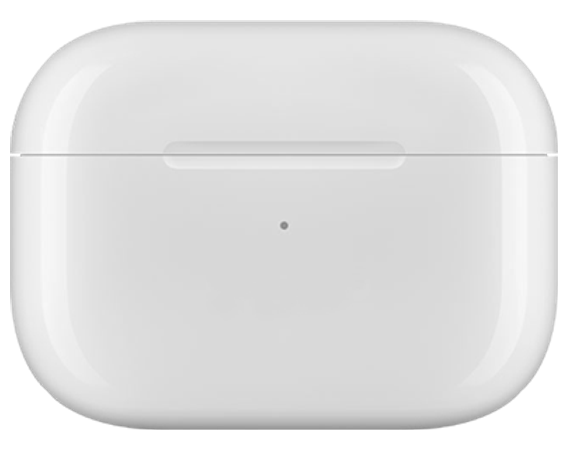
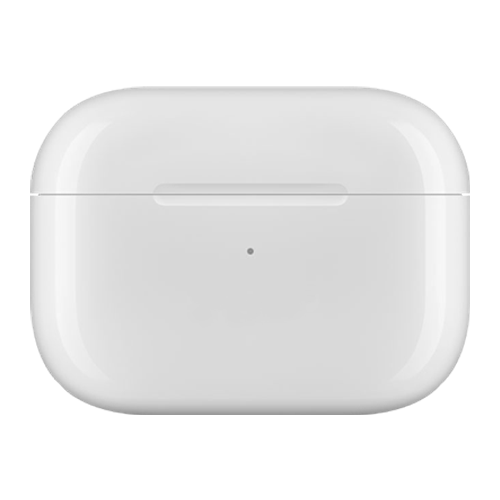
style: adjust slider styling and visual assets
Update slider layout dimensions and refine the ambient glow effect for better alignment. Replaced placeholder image assets with optimized versions.

Changed region(s): [[0.0, 0.0311, 0.99, 0.9644], [0.12, 0.2178, 0.15, 0.2489], [0.09, 0.2489, 0.12, 0.28]]

diff --git a/index.html b/index.html
@@ -755,7 +755,7 @@
 
     .experience-image-area {
       position: relative;
-      min-height: auto;
+      min-height: 470px;
       border-radius: 28px;
       overflow: hidden;
       background: #ffffff;
@@ -764,7 +764,7 @@
       flex-direction: column;
       align-items: center;
       justify-content: center;
-      padding: 30px 18px 24px;
+      padding: 36px 20px 28px;
       box-shadow: 0 10px 32px rgba(0, 0, 0, 0.04);
     }
 
@@ -786,8 +786,9 @@
       display: flex;
       align-items: center;
       justify-content: center;
-      min-height: 270px;
-      overflow: hidden;
+      min-height: 250px;
+      height: 250px;
+      overflow: visible;
     }
     /* Soft ambient blue glow behind the center active earbuds */
     .thfs-stage::before {
@@ -796,9 +797,9 @@
       top: 50%;
       left: 50%;
       transform: translate(-50%, -50%);
-      width: 250px;
-      height: 250px;
-      background: radial-gradient(circle, rgba(20, 52, 124, 0.22) 0%, rgba(20, 52, 124, 0.06) 55%, transparent 75%);
+      width: 210px;
+      height: 210px;
+      background: radial-gradient(circle, rgba(20, 52, 124, 0.18) 0%, rgba(20, 52, 124, 0.05) 55%, transparent 72%);
       border-radius: 50%;
       pointer-events: none;
       z-index: 1;
@@ -818,8 +819,8 @@
       position: absolute;
       top: 50%;
       left: 50%;
-      width: 145px;
-      height: 145px;
+      width: 135px;
+      height: 135px;
       transform: translate(-50%, -50%) scale(0.6);
       opacity: 0.4;
       transition: transform 0.45s cubic-bezier(0.25, 1, 0.5, 1), opacity 0.45s ease;
@@ -835,45 +836,33 @@
     }
     /* Strictly uniform sizing for all images */
     .thfs-slide img {
-      width: 140px;
-      height: auto;
-      max-width: 146px;
-      max-height: 168px;
+      width: 100%;
+      height: 100%;
+      max-width: 130px;
+      max-height: 130px;
       display: block;
       object-fit: contain;
-      filter: drop-shadow(0 12px 24px rgba(0, 0, 0, 0.12));
+      filter: drop-shadow(0 10px 20px rgba(0, 0, 0, 0.10));
       user-select: none;
       cursor: pointer;
       pointer-events: auto;
     }
-    .thfs-slide-1 img {
-      width: 165px;
-      max-width: 172px;
-    }
-    .thfs-slide-3 img {
-      width: 142px;
-      max-width: 146px;
-    }
-    .thfs-slide-4 img {
-      width: 148px;
-      max-width: 152px;
-    }
     /* Positions: Center enlarged, side thumbnails previewed cleanly */
     .thfs-slide.is-center {
-      transform: translate(-50%, -50%) scale(1.72);
+      transform: translate(-50%, -50%) scale(1.42);
       opacity: 1;
       z-index: 3;
       pointer-events: auto;
     }
     .thfs-slide.is-left {
-      transform: translate(calc(-50% - clamp(95px, 26vw, 140px)), -50%) scale(0.55);
-      opacity: 0.72;
+      transform: translate(calc(-50% - clamp(95px, 26vw, 135px)), -50%) scale(0.52);
+      opacity: 0.65;
       z-index: 2;
       pointer-events: auto;
     }
     .thfs-slide.is-right {
-      transform: translate(calc(-50% + clamp(95px, 26vw, 140px)), -50%) scale(0.55);
-      opacity: 0.72;
+      transform: translate(calc(-50% + clamp(95px, 26vw, 135px)), -50%) scale(0.52);
+      opacity: 0.65;
       z-index: 2;
       pointer-events: auto;
     }
@@ -914,21 +903,22 @@
         display: none !important; /* Hidden on mobile like Tech Hunk screenshot */
       }
       .thfs-stage {
-        min-height: 240px;
+        min-height: 250px;
+        height: 250px;
       }
       .thfs-track {
-        height: 220px;
+        height: 250px;
       }
       .thfs-slide.is-left {
-        transform: translate(calc(-50% - clamp(85px, 28vw, 120px)), -50%) scale(0.52);
-        opacity: 0.65;
+        transform: translate(calc(-50% - clamp(88px, 28vw, 118px)), -50%) scale(0.50);
+        opacity: 0.60;
       }
       .thfs-slide.is-right {
-        transform: translate(calc(-50% + clamp(85px, 28vw, 120px)), -50%) scale(0.52);
-        opacity: 0.65;
+        transform: translate(calc(-50% + clamp(88px, 28vw, 118px)), -50%) scale(0.50);
+        opacity: 0.60;
       }
       .thfs-slide.is-center {
-        transform: translate(-50%, -50%) scale(1.85);
+        transform: translate(-50%, -50%) scale(1.42);
         opacity: 1;
       }
     }
@@ -1549,8 +1539,8 @@
         grid-template-columns: 1fr;
       }
       .experience-image-area {
-        min-height: auto;
-        padding: 24px 14px 20px;
+        min-height: 420px;
+        padding: 32px 16px 24px;
       }
       .cta-section {
         padding: 24px 0 36px;
@@ -1965,16 +1955,16 @@
                     <button class="thfs-nav thfs-prev" aria-label="Previous">&#x276E;</button>
                     <ul class="thfs-track">
                       <li class="thfs-slide thfs-slide-1 is-center" data-title="AirPods Pro 2" data-link="#earbuds">
-                        <img src="assets/airpods-1-hd.png?v=20261007_v5" alt="AirPods Pro 2" loading="lazy">
+                        <img src="assets/airpods-1.png?v=20261009_final" alt="AirPods Pro 2" loading="lazy">
                       </li>
                       <li class="thfs-slide thfs-slide-2 is-right" data-title="AirPods Pro 2" data-link="#earbuds">
-                        <img src="assets/airpods-2.png?v=20261007_v5" alt="AirPods Pro 2" loading="lazy">
+                        <img src="assets/airpods-2.png?v=20261009_final" alt="AirPods Pro 2" loading="lazy">
                       </li>
                       <li class="thfs-slide thfs-slide-3 is-far" data-title="AirPods Pro 2" data-link="#earbuds">
-                        <img src="assets/airpods-3.png?v=20261007_v5" alt="AirPods Pro 2" loading="lazy">
+                        <img src="assets/airpods-3.png?v=20261009_final" alt="AirPods Pro 2" loading="lazy">
                       </li>
                       <li class="thfs-slide thfs-slide-4 is-left" data-title="AirPods Pro 2" data-link="#earbuds">
-                        <img src="assets/airpods-4.png?v=20261007_v5" alt="AirPods Pro 2" loading="lazy">
+                        <img src="assets/airpods-4.png?v=20261009_final" alt="AirPods Pro 2" loading="lazy">
                       </li>
                     </ul>
                     <button class="thfs-nav thfs-next" aria-label="Next">&#x276F;</button>
